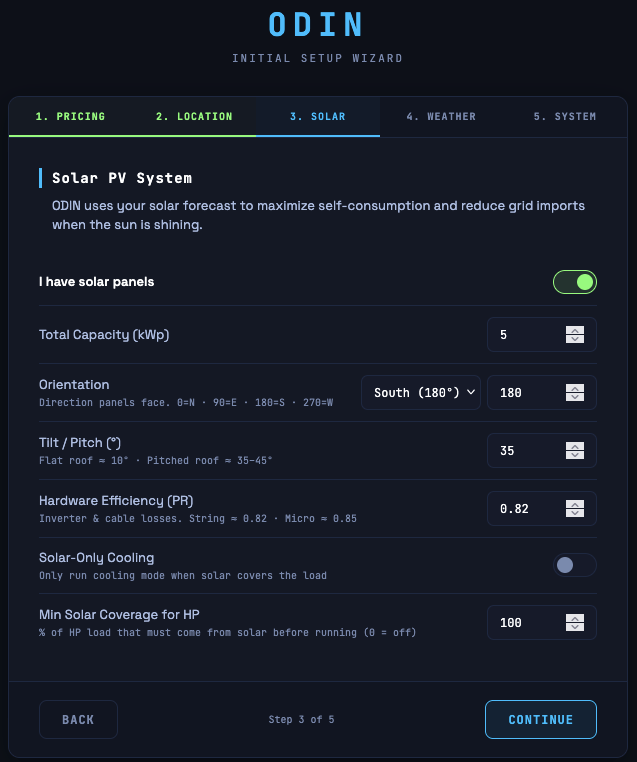
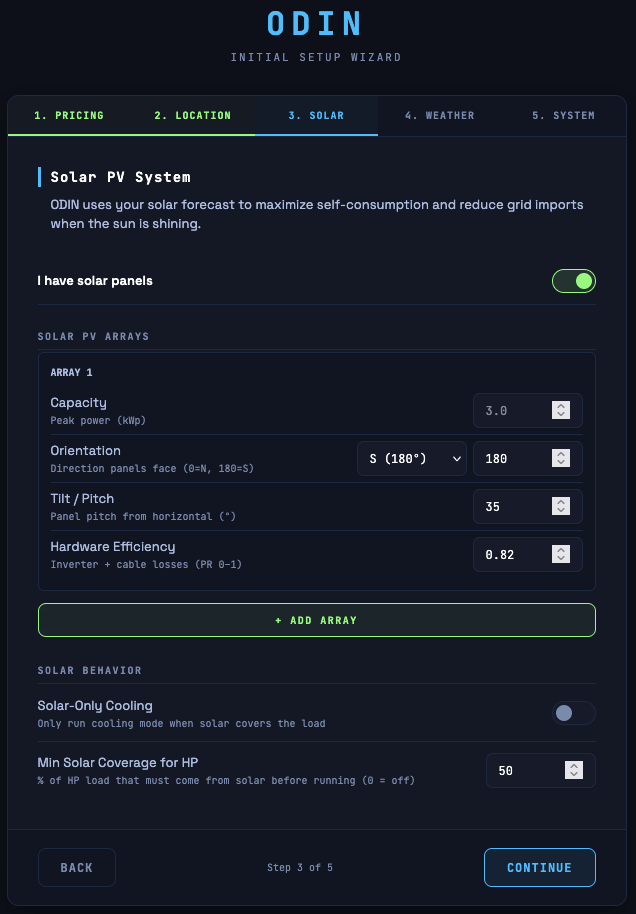
update odin doc

diff --git a/odin/ODIN_MANUAL.md b/odin/ODIN_MANUAL.md
@@ -146,6 +146,8 @@ Toggle **I have solar panels** on if you have a PV installation. The fields belo
 | **Orientation (Degrees)** | The compass direction your panels face, in degrees (0 = North, 90 = East, 180 = South, 270 = West). Use the preset dropdown or enter exact degrees. |
 | **Tilt / Pitch (Degrees)** | The angle your panels are mounted at. Flat roof = ~10°, pitched roof = ~35–45°. |
 
+You can define multiple arrays by pressing the `add array` button.
+
 If you have no solar panels, leave the toggle off. ODIN will still optimize around price. Please be advised that solar production is an **estimation** based on the parameters.
 
 ### Step 4 — Weather Data Source